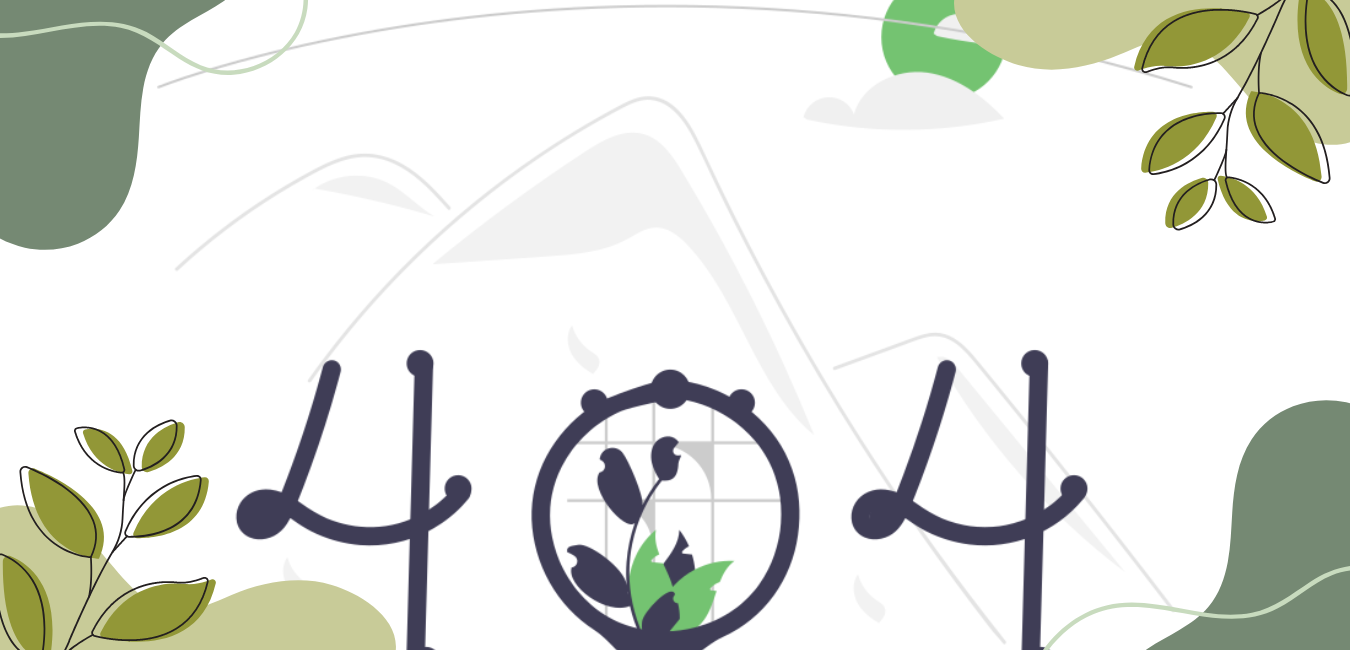
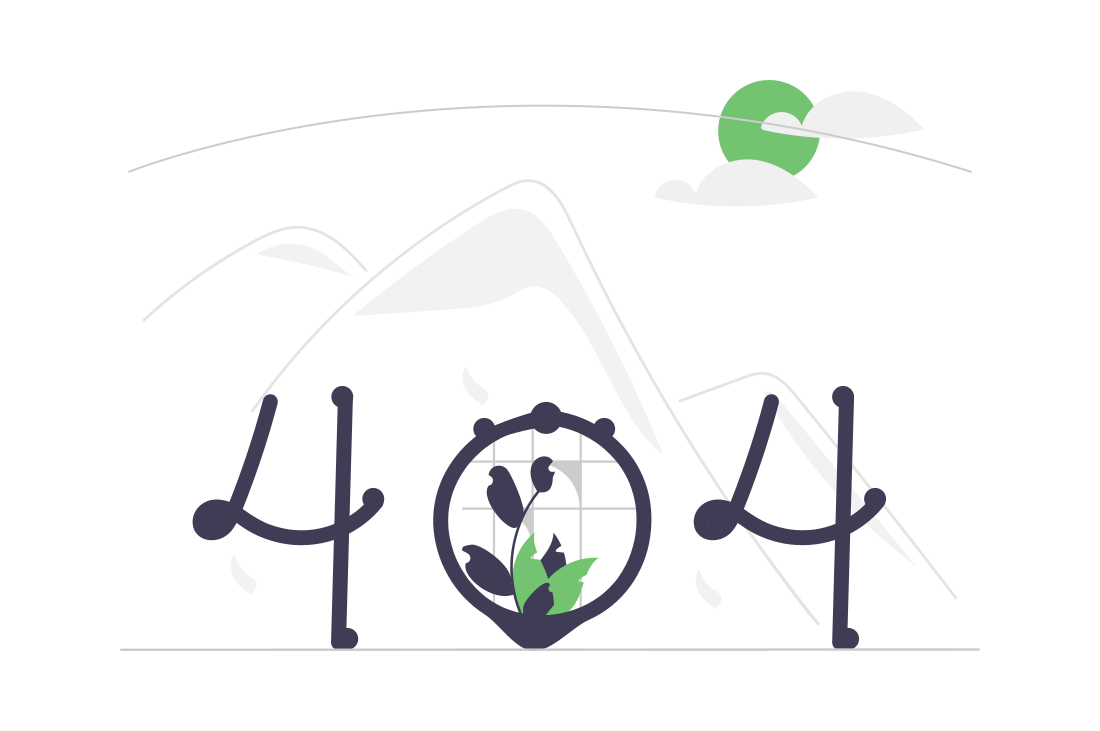
feat: add page layout

diff --git a/e-commerce-app/src/pages/ErrorPage/ErrorPage.tsx b/e-commerce-app/src/pages/ErrorPage/ErrorPage.tsx
@@ -1,6 +1,31 @@
 import React from 'react';
-import imgError from '../../assets/images/ImgErrorPage.png';
+import { Button, Typography, Box } from '@mui/material';
+import notFound from '../../assets/images/ImgErrorPage.png';
+import gifIcon from '../../assets/gif/animation_llh1f76d_small.gif';
 import { Link } from 'react-router-dom';
+
 export const ErrorPage: React.FC = () => {
-    return <div>Error Page</div>;
+    return (
+        <Box sx={{ 
+          backgroundImage: `url(${notFound})`,
+          backgroundRepeat: 'no-repeat',
+          backgroundSize: 'contein',
+          backgroundPosition: 'center',
+          display: 'flex',
+        justifyContent: 'end',
+        alignItems: 'center',
+        flexDirection: 'column',
+        minHeight: '80vh',
+        marginBottom: '5%'
+        }}
+        >
+            <Typography variant="h5" style={{ color: 'darkgreen' }}>
+                Sorry, the page you’re looking for doesn’t exist.
+            </Typography>
+            <img src={gifIcon} alt='home-icon' width={45} height={45}/>
+            <Button variant="contained" sx={{ backgroundColor:'lightgreen', height:'fit-content'}}>
+                <Link to='/'>Back Home</Link>
+            </Button>
+        </Box>
+    );
 };
